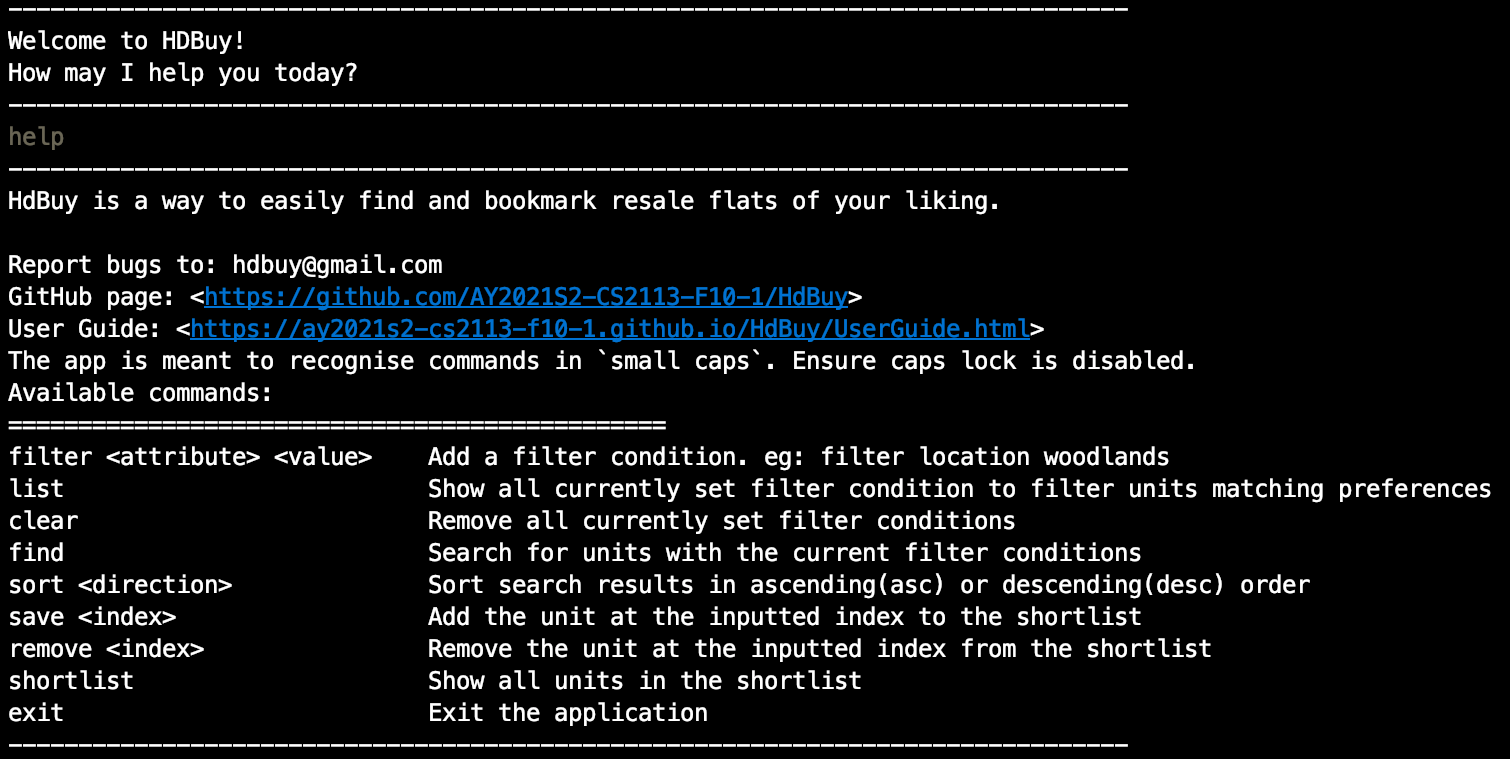
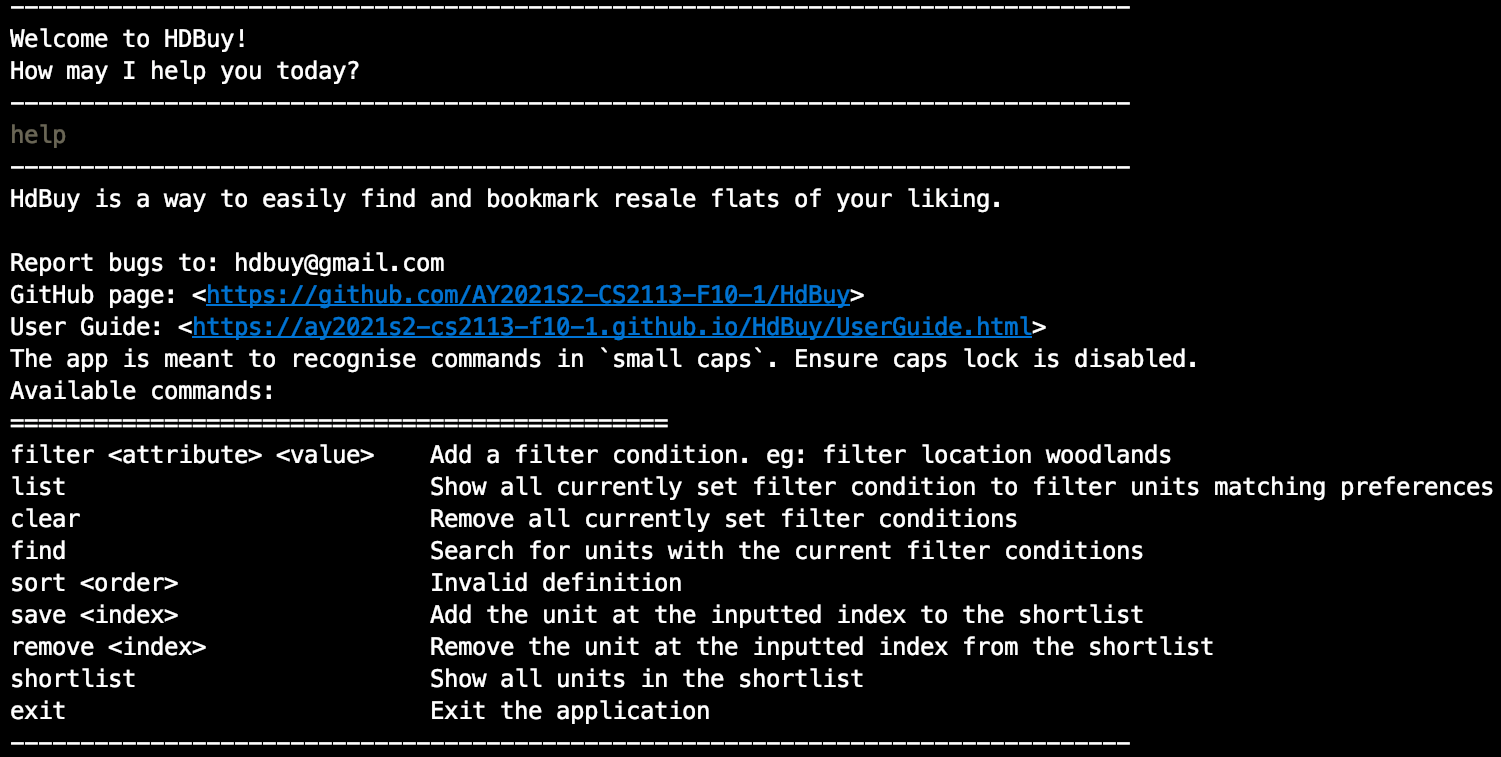
Edit text

Changed region(s): [[0.0, 0.3342, 1.0, 0.9723], [0.0, 0.0, 0.7662, 0.3038]]

diff --git a/src/main/java/seedu/hdbuy/ui/TextUi.java b/src/main/java/seedu/hdbuy/ui/TextUi.java
@@ -73,7 +73,7 @@ public class TextUi {
             + "The app is meant to recognise commands in `small caps`. Ensure caps lock is disabled.\n"
             + "Available commands:\n===============================================\n");
 
-        String[] terms = {"filter <attribute> <value>", "list", "clear", "find", "sort <direction>", "save <index>",
+        String[] terms = {"filter <attribute> <value>", "list", "clear", "find", "sort <order>", "save <index>",
             "remove <index>", "shortlist", "exit"};
 
         for (String term : terms) {

diff --git a/src/main/java/seedu/hdbuy/common/exception/InvalidIndexException.java b/src/main/java/seedu/hdbuy/common/exception/InvalidIndexException.java
@@ -3,6 +3,6 @@ package seedu.hdbuy.common.exception;
 public class InvalidIndexException extends Exception {
 
     public InvalidIndexException(String index) {
-        super(index + " is invalid. It is either a non-integer or an out of range value.");
+        super(index + " is out of range. Check that index is within the range of units displayed.");
     }
 }

diff --git a/docs/UserGuide.md b/docs/UserGuide.md
@@ -27,8 +27,7 @@ HdBuy allows you to easily find and bookmark resale flats available matching you
     2. Note that if you set the same attribute twice (filter by location at 'jurong' then at 'bishan'), the latter value will overwrite the former.
     3. An example is shown below:
 
-
-    <img src="images/filter_example.png" width="400" height="300"/>
+    <img src="images/filter_example.png" width="400" height="250"/>
 
 3. Find your units
     1. Execute `find`, you will then see up to 100 units matching your preferences.
@@ -138,14 +137,14 @@ Listed in the table below are the possible errors, how they can occur and how to
 
 |How can this error occur|Description|How to remedy|
 |----|------|---------|
-|Prerequisites: `filter` not set <br>`find`|`find` has no parameters currently.<br>Please specify a filter to use before executing this command.<br>Filters available: [LOCATION, TYPE, LEASE_REMAINING]<br>An example will be "filter location clementi"|`find` requires a valid filter to function.<br>Please specify a filter to use before executing this command.
-|`filter quality good`|This is an invalid command. Please try the following:<br>Filter types: [location, type, lease_remaining]<br>Example: "filter location clementi"<br>Example: "filter type 4 room", can be any of X room (X = 1 - 5) or executive<br>Example: "filter lease_remaining 90", can be any whole number from 0 - 99|`filter` command only allows for predetermined attributes.<br>Please use these filters: [LOCATION, TYPE, LEASE_REMAINING].
+|Prerequisites: `filter` not set <br>`find`|`find` has no parameters currently.<br>Please specify a filter to use before executing this command.<br>Filters available: [location, type, lease_remaining]<br>An example will be "filter location clementi"|`find` requires a valid filter to function.<br>Please specify a filter to use before executing this command.
+|`filter quality good`|This is an invalid command. Please try the following:<br>Filter types: [location, type, lease_remaining]<br>Example: "filter location clementi"<br>Example: "filter type 4 room", can be any of X room (X = 1 - 5) or executive<br>Example: "filter lease_remaining 90", can be any whole number from 0 - 99|`filter` command only allows for predetermined attributes.<br>Please use these filters: [location, type, lease_remaining].
 |`sort`|This is an invalid command. Please try the following:<br>Example: "sort asc" or "sort desc"|`sort` requires a direction. Either asc (ascending) or desc(descending).
 |Prerequisites: `find` not run <br> `sort asc` or `sort desc`|Please perform unit search first.|Perform searching of units first so that sorting can take place thereafter.
 |Prerequisites: `find` not run or it does not have flats to show <br> `save 1`|Please perform unit search first.|Set an appropriate filter and run the `find` command before attempting to `save`.
 Prerequisites: `find` is run and shows some flats <br> `save 101`|101 is invalid. It is either a non-integer or an out of range value.|Enter an integer from 1 to 100 instead.
 |`remove`|This is an invalid command. Please try the following:<br>Example: "remove X", X is the index of the unit in the shortlist.|Input the index of the unit to remove.
-|Prerequisites: `shortlist` is empty <br> `remove 1`|1 is invalid. It is either a non-integer or an out of range value.|Have at least one unit in the shortlist by using the `save` command.
+|Prerequisites: `shortlist` is empty <br> `remove 1`|1 is out of range. Check that index is within the range of units displayed.|Have at least one unit in the shortlist by using the `save` command.
 |Prerequisites: Bad internet connection or server down.|Server seems to be down, or was it your Internet connection?|Troubleshoot internet connection. If it is the server issue, please report it to our email.|
 
 <div style="page-break-after: always;"></div>

diff --git a/docs/DeveloperGuide.md b/docs/DeveloperGuide.md
@@ -318,16 +318,22 @@ Easily find and bookmark resale flats available matching user's preference.
    1. Test case: After `find`, input `save 1` to save first unit from result to shortlist.
       Expected: Message stating the unit being saved to shortlist. Also displays the units' properties.
    
-   2. Incorrect inputs to try: `save`, `save x` (where x is not any of the indexes shown in search result)<br>
-      Expected: Message stating usage of invalid command, followed by a positive example. Unit is not saved.
+   2. Incorrect inputs to try: `save`<br>
+      Expected: Message stating usage of invalid command, followed by a positive example.
+      
+   3. Incorrect inputs to try: `save x` (where x is not any of the indexes shown in search results)<br>
+      Expected: Message stating x is out of range. Unit is not saved.
 
 8. Removing a unit from shortlist, requires user to have at least 1 unit in shortlist
 
    1. Test case: `remove 1` to remove the first unit in shortlist.
       Expected: Message stating the unit being removed from shortlist. Also displays the units' properties.
    
-   2. Incorrect inputs to try: `remove`, `remove x` (where x is not any of the indexes shown in shortlist)<br>
-      Expected: Message stating usage of invalid command, followed by a positive example. Unit is not removed.
+   2. Incorrect inputs to try: `remove`<br>
+      Expected: Message stating usage of invalid command, followed by a positive example.
+      
+   3. Incorrect inputs to try: `remove x` (where x is not any of the indexes shown in shortlist)<br>
+      Expected: Message stating x is out of range. Unit is not removed.
 
 9. Retrieving shortlist
 

diff --git a/docs/README.md b/docs/README.md
@@ -5,14 +5,14 @@ A way to easily find and bookmark resale flats of your liking.
 
 ## Search for your preferred flats
 
-<img src="images/find_example.png" width="600" height="200"/>
+<img src="images/find_example.png" width="600" height="220"/>
 
 * Search for resale flats matching your preferred location, type and lease remaining.
 
 
 ## Bookmark your favorite resale flat
 
-<img src="images/shortlist_example.png" width="600" height="200"/>
+<img src="images/shortlist_example.png" width="600" height="180"/>
 
 * Shortlist resale flats for future references so you will not forget them.
 
